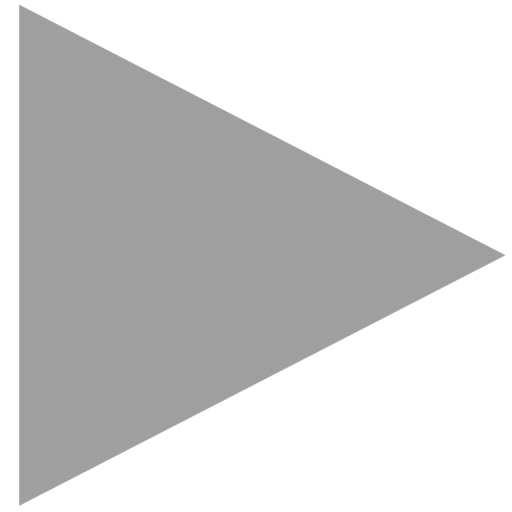
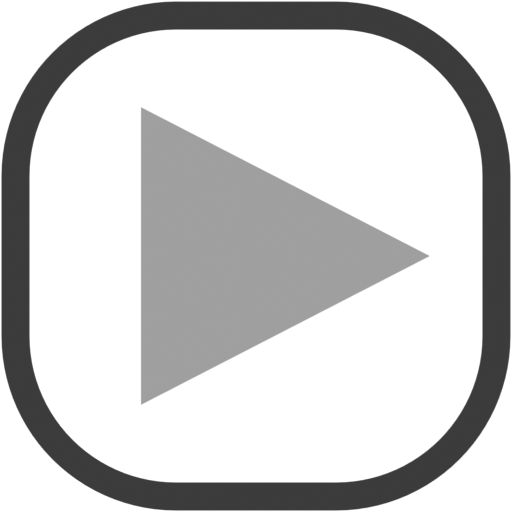
- Created better looking and less complex buttons - Added a button hover effect

diff --git a/src/battlesim/ButtonFX.css b/src/battlesim/ButtonFX.css
@@ -1,0 +1,4 @@
+.button:hover {
+    -fx-border-width: 1;
+    -fx-border-color: yellow;
+}

diff --git a/src/battlesim/BattlefieldController.java b/src/battlesim/BattlefieldController.java
@@ -27,6 +27,7 @@ public class BattlefieldController {
     private ImageView imageHolder;
     private Label labelRed;
     private Label labelBlue;
+    Label winHow;
     private ImageView arrowImage;
     private final List<Soldier> soldiers = new ArrayList<>();
     private int numberOfSoldiers;
@@ -47,6 +48,8 @@ public class BattlefieldController {
         for (int i = 0; i < numberOfSoldiers; i++) {
             soldiers.add(new Soldier(new Point2D(Math.random() * 960, Math.random() * 540), this));
         }
+
+        //winnerDisplay("Soldiers", 0);
     }
 
     /**
@@ -55,63 +58,66 @@ public class BattlefieldController {
     private void createInterface() {
         int dimensions = 45;
 
-        labelBlue = createLabel(125, 500);
-        labelRed = createLabel(817, 500);
+        labelBlue = createLabel(125, 500, 35);
+        labelRed = createLabel(817, 500, 35);
+        Label blueSword = createLabel(74, 458, 22);
+        Label blueBow = createLabel(161, 458, 22);
+        Label redSword = createLabel(767, 458, 22);
+        Label redBow = createLabel(851, 458, 22);
 
         ImageView plusImageBlue = createImageView("images/Plus-Image.png", dimensions / 2);
-        Button plusButtonBlue = createButton(173, 505, plusImageBlue, 0, false, 0);
+        Button plusButtonBlue = createButton(173, 505, plusImageBlue);
         ButtonHandler plusBlueHandler = new ButtonHandler();
         plusBlueHandler.changeAmount(plusButtonBlue, labelBlue, 1);
         ImageView plusImageRed = createImageView("images/Plus-Image.png", dimensions / 2);
-        Button plusButtonRed = createButton(865, 505, plusImageRed, 0, false, 0);
+        Button plusButtonRed = createButton(865, 505, plusImageRed);
         ButtonHandler plusRedHandler = new ButtonHandler();
         plusRedHandler.changeAmount(plusButtonRed, labelRed, 1);
 
         ImageView minusImageBlue = createImageView("images/Minus-Image.png", dimensions / 2);
-        Button minusButtonBlue = createButton(73, 505, minusImageBlue, 0, false, 0);
+        Button minusButtonBlue = createButton(58, 505, minusImageBlue);
         ButtonHandler minusBlueHandler = new ButtonHandler();
         minusBlueHandler.changeAmount(minusButtonBlue, labelBlue, -1);
         ImageView minusImageRed = createImageView("images/Minus-Image.png", dimensions / 2);
-        Button minusButtonRed = createButton(765, 505, minusImageRed, 0, false, 0);
+        Button minusButtonRed = createButton(750, 505, minusImageRed);
         ButtonHandler minusRedHandler = new ButtonHandler();
         minusRedHandler.changeAmount(minusButtonRed, labelRed, -1);
 
 
-        ImageView playImage = createImageView("images/Play-Image.png", dimensions);
-        ImageView pauseImage = createImageView("images/Pause-Image.png", dimensions);
+        ImageView playImage = createImageView("images/Play-Image.png", 96);
+        ImageView pauseImage = createImageView("images/Pause-Image.png", 96);
 
         //440 middle / 370 side
-        Button playPauseButton = createButton(370, 447, playImage, 10, false, 3);
+        Button playPauseButton = createButton(355, 432, playImage);
         ButtonHandler playPauseHandler = new ButtonHandler();
         playPauseHandler.playPause(playPauseButton, playImage, pauseImage);
 
-        Button setBoard = new Button("Set Board");
-        setBoard.setLayoutX(495);
-        setBoard.setLayoutY(447);
+        ImageView restartImage = createImageView("images/Restart-Image.png", 53);
+        Button restartButton = createButton(459, 478, restartImage);
+
+        ImageView setBoardImage = createImageView("images/SetBoard-Image.png", 45);
+        Button setBoard = createButton(455, 427, setBoardImage);
         ButtonHandler setBoardHandler = new ButtonHandler();
         setBoardHandler.getEntities(setBoard, labelBlue, labelRed, this);
 
-        arrowImage = new ImageView(new Image("images/Arrow-image.png"));
-        arrowImage.setFitWidth(23);
-        arrowImage.setPreserveRatio(true);
-        arrowImage.setLayoutX(490);
+        arrowImage = createImageView("images/Arrow-image.png", 23);
+        arrowImage.setLayoutX(531);
         arrowImage.setLayoutY(477);
 
-        Button randomFactoryButton = new Button("R");
-        randomFactoryButton.setLayoutX(490);
-        randomFactoryButton.setLayoutY(500);
+        ImageView randomImage = createImageView("images/Random-Image.png", 30);
+        Button randomFactoryButton = createButton(520, 497, randomImage);
         ButtonHandler rFactory = new ButtonHandler();
-        rFactory.activeFactory(randomFactoryButton, arrowImage, this);
+        rFactory.activeFactory(randomFactoryButton, arrowImage, "Random", this);
 
-        Button balancedFactoryButton = new Button("B");
-        balancedFactoryButton.setLayoutX(545);
-        balancedFactoryButton.setLayoutY(500);
+        ImageView balanceImage = createImageView("images/Balance-Image.png", 30);
+        Button balancedFactoryButton = createButton(560, 497, balanceImage);
         ButtonHandler bFactory = new ButtonHandler();
-        bFactory.activeFactory(balancedFactoryButton, arrowImage, this);
+        bFactory.activeFactory(balancedFactoryButton, arrowImage, "Balanced", this);
 
         theBattlefield.getChildren().addAll(playPauseButton, plusButtonBlue, minusButtonBlue,
                 plusButtonRed, minusButtonRed, labelBlue, labelRed, setBoard, randomFactoryButton,
-                balancedFactoryButton, arrowImage);
+                balancedFactoryButton, arrowImage, restartButton, blueSword, blueBow, redSword,
+                redBow);
     }
 
     /**
@@ -152,11 +158,11 @@ public class BattlefieldController {
      * @param y The y position of the label
      * @return A label that displayes the number of entities
      */
-    private Label createLabel(int x, int y) {
+    private Label createLabel(int x, int y, int fontSize) {
         Label label = new Label();
         label.setText("0");
         label.setTextFill(Color.WHITE);
-        label.setFont(Font.font("Arial", FontWeight.BOLD, 35));
+        label.setFont(Font.font("Arial", FontWeight.BOLD, fontSize));
         label.setLayoutX(x);
         label.setLayoutY(y);
         return label;
@@ -180,30 +186,17 @@ public class BattlefieldController {
      * @param x The x position of the button
      * @param y The y position of the button
      * @param image The image of the button
-     * @param padding The padding around the image
-     * @param setFill Determines if the button should be filled in or transparent
-     * @param boarderWidth The boarder width of the button
      * @return A button
      */
-    private Button createButton(int x, int y, ImageView image, int padding, boolean setFill, int boarderWidth) {
+    private Button createButton(int x, int y, ImageView image) {
         Button button = new Button();
-        button.setTranslateX(x);
-        button.setTranslateY(y);
+        button.setLayoutX(x);
+        button.setLayoutY(y);
         button.setGraphic(image);
 
-        String backgroundColor;
-        if (setFill) {
-            backgroundColor = "#3b3b3b";
-        } else {
-            backgroundColor = "transparent";
-        }
+        button.setStyle("-fx-background-color: transparent;");
+        button.getStylesheets().add(getClass().getResource("ButtonFX.css").toExternalForm());
 
-        button.setStyle(
-                "-fx-background-color: " + backgroundColor + ";" +
-                        "-fx-border-width: " + boarderWidth + ";" +
-                        "-fx-border-radius: 20;" +
-                        "-fx-border-color: #3b3b3b;" +
-                        "-fx-padding:" + padding);
         return button;
     }
 
@@ -233,5 +226,17 @@ public class BattlefieldController {
      */
     private void instanceAddChild(Node node) {
         theBattlefield.getChildren().add(node);
+    }
+
+    private void winnerDisplay(String winner, int winBy) {
+        winHow = createLabel(345, 35, 15);
+
+        if (winBy == 0) {
+            winHow.setText("No enemies left to continue the battle.\n" + winner + " win!");
+        } else if (winBy == 1) {
+            winHow.setText(winner + " breached the opponents side.\n" + winner + " win!");
+        }
+
+        theBattlefield.getChildren().add(winHow);
     }
 }

diff --git a/src/battlesim/ButtonHandler.java b/src/battlesim/ButtonHandler.java
@@ -69,14 +69,16 @@ public class ButtonHandler {
      * @param arrow      An arrow that shows which factory is currently selected
      * @param controller The main controller of the program
      */
-    public void activeFactory(Button button, ImageView arrow, BattlefieldController controller) {
+    public void activeFactory(Button button, ImageView arrow, String factory, BattlefieldController controller) {
+
         button.setOnAction(new EventHandler() {
             @Override
             public void handle(Event event) {
-                double locationX = button.getLayoutX();
+                double locationX = button.getLayoutX() + 11;
+                System.out.println(locationX);
                 arrow.setLayoutX(locationX);
-                System.out.println(button.getText() + " Factory Selected");
-                controller.setCurrentFactory(button.getText());
+                System.out.println(factory + " Factory Selected");
+                controller.setCurrentFactory(factory);
             }
         });
     }
